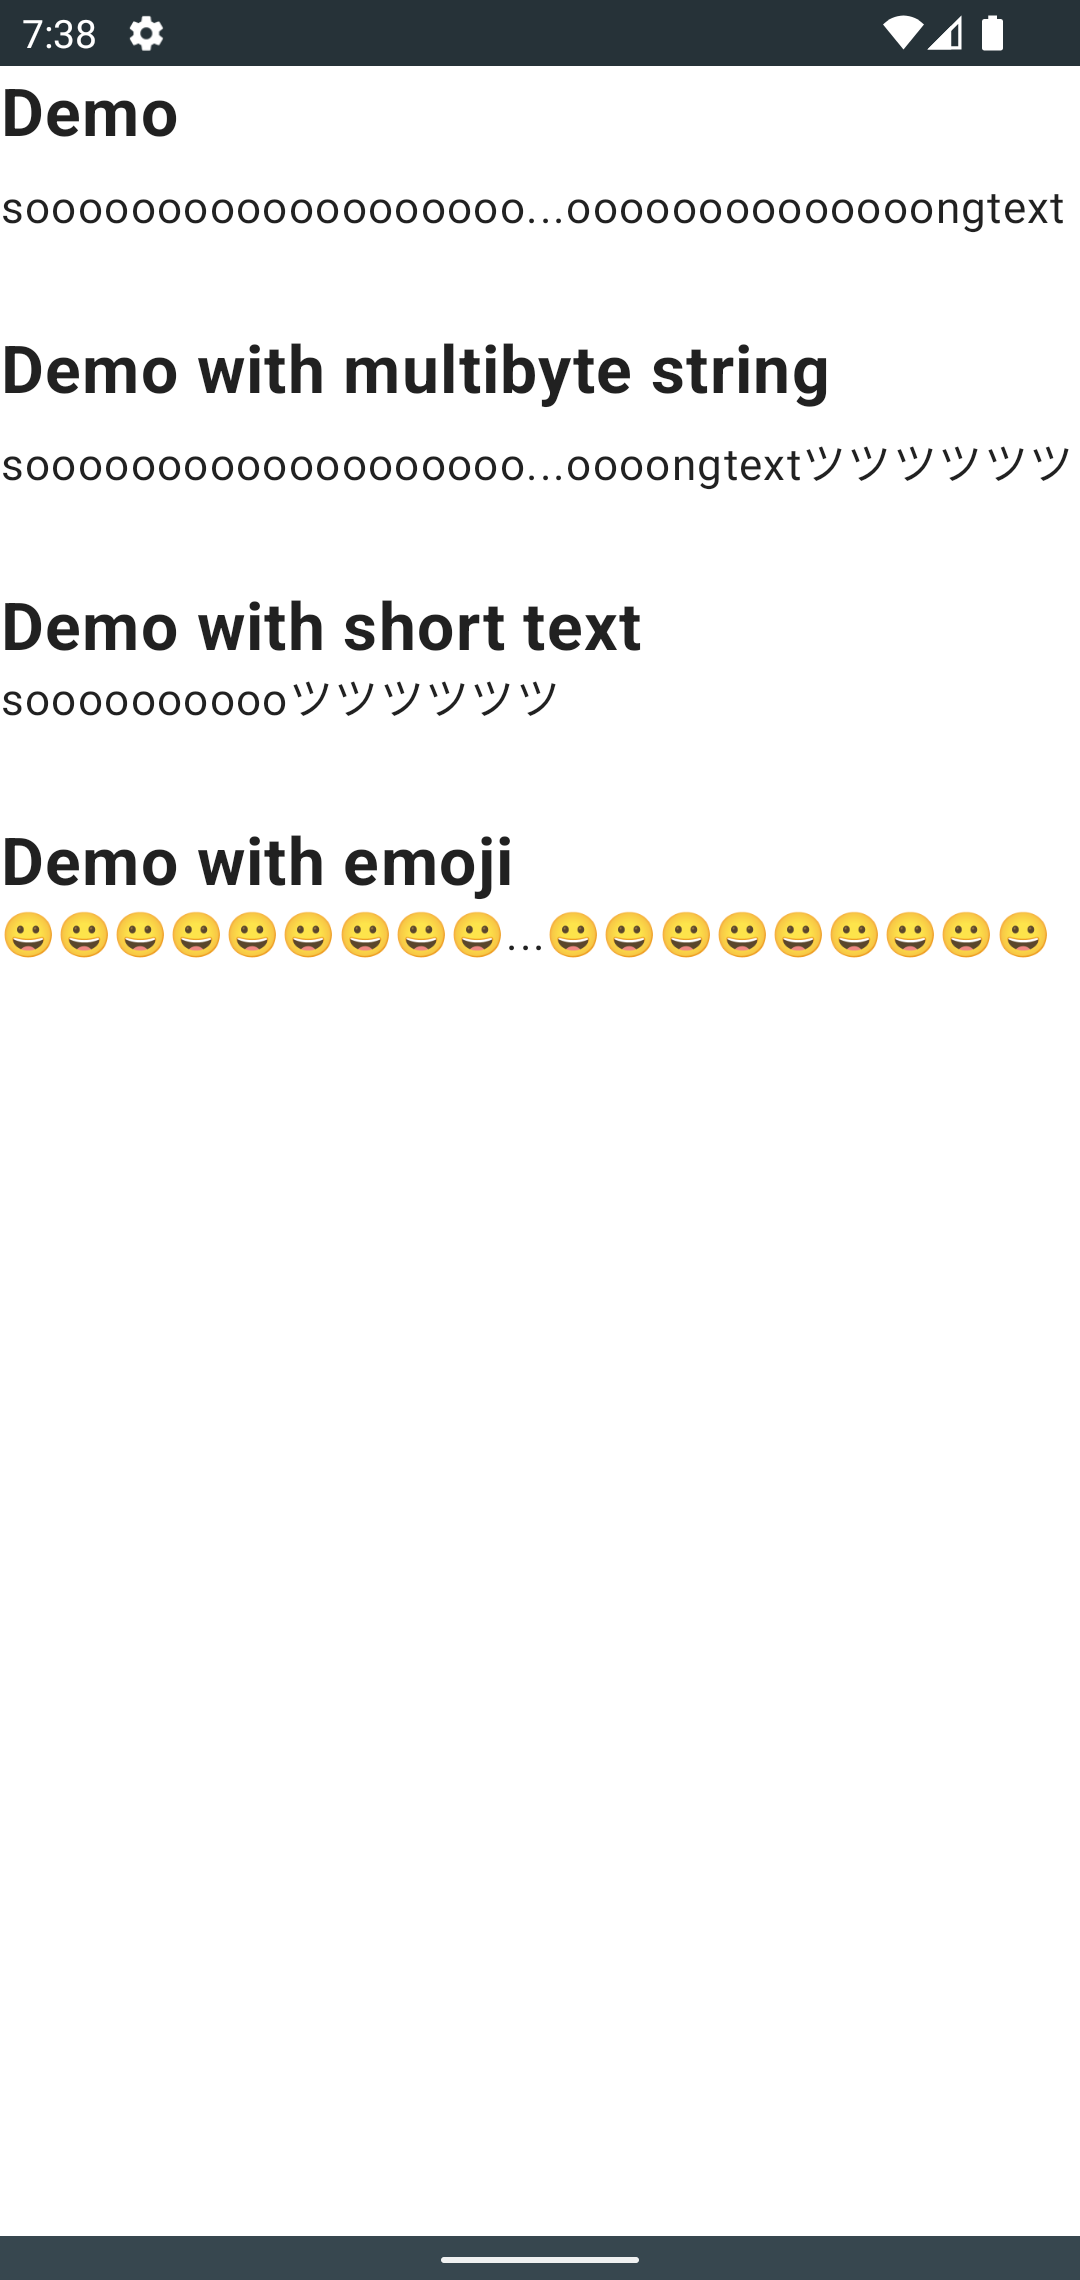
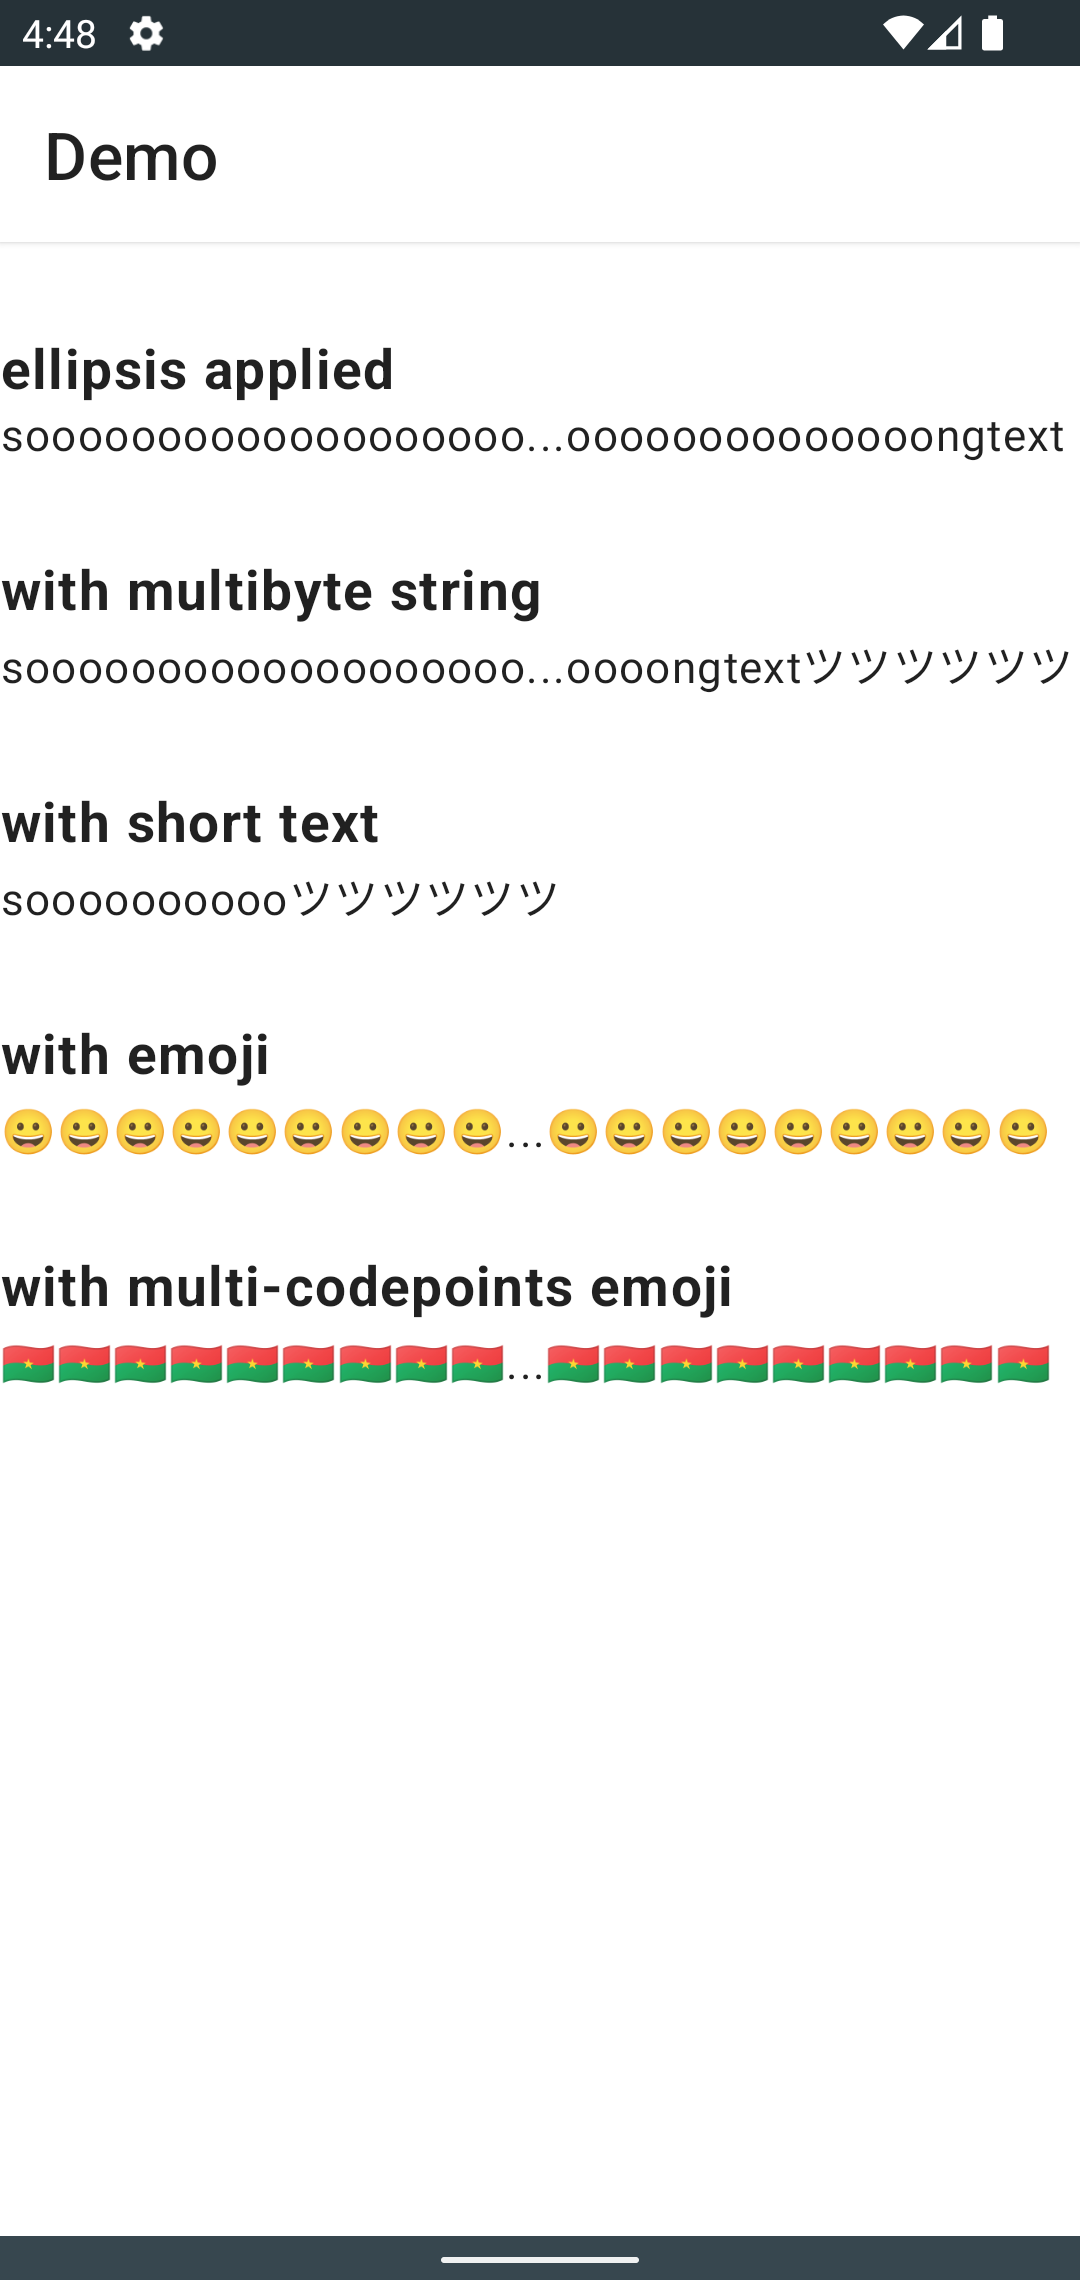
Update samples

diff --git a/app/src/main/java/com/mataku/middleellipsistextsample/MainActivity.kt b/app/src/main/java/com/mataku/middleellipsistextsample/MainActivity.kt
@@ -3,15 +3,19 @@ package com.mataku.middleellipsistextsample
 import android.os.Bundle
 import androidx.activity.ComponentActivity
 import androidx.activity.compose.setContent
+import androidx.compose.foundation.layout.Box
 import androidx.compose.foundation.layout.Column
 import androidx.compose.foundation.layout.Spacer
 import androidx.compose.foundation.layout.fillMaxSize
+import androidx.compose.foundation.layout.fillMaxWidth
 import androidx.compose.foundation.layout.height
+import androidx.compose.foundation.layout.padding
 import androidx.compose.material.MaterialTheme
 import androidx.compose.material.Surface
 import androidx.compose.material.Text
 import androidx.compose.runtime.Composable
 import androidx.compose.ui.Modifier
+import androidx.compose.ui.text.TextStyle
 import androidx.compose.ui.text.font.FontWeight
 import androidx.compose.ui.tooling.preview.Preview
 import androidx.compose.ui.unit.dp
@@ -36,8 +40,11 @@ private fun MainContent() {
   Column(
     modifier = Modifier.fillMaxSize()
   ) {
-    Text(text = "Demo", fontSize = 24.sp, fontWeight = FontWeight.Bold)
-    Spacer(modifier = Modifier.height(8.dp))
+    ContentHeader(text = "Demo")
+
+    Spacer(modifier = Modifier.height(32.dp))
+
+    Text(text = "ellipsis applied", fontSize = 20.sp, fontWeight = FontWeight.Bold)
 
     MiddleEllipsisText(
       text = "soooooooooooooooooooooooloooooooooooooooooooongtext",
@@ -45,9 +52,9 @@ private fun MainContent() {
 
     Spacer(modifier = Modifier.height(32.dp))
 
-    Text(text = "Demo with multibyte string", fontSize = 24.sp, fontWeight = FontWeight.Bold)
+    Text(text = "with multibyte string", fontSize = 20.sp, fontWeight = FontWeight.Bold)
 
-    Spacer(modifier = Modifier.height(8.dp))
+    Spacer(modifier = Modifier.height(4.dp))
 
     MiddleEllipsisText(
       text = "soooooooooooooooooooooooloooooooooooooooooooongtextツツツツツツ",
@@ -55,7 +62,9 @@ private fun MainContent() {
 
     Spacer(modifier = Modifier.height(32.dp))
 
-    Text(text = "Demo with short text", fontSize = 24.sp, fontWeight = FontWeight.Bold)
+    Text(text = "with short text", fontSize = 20.sp, fontWeight = FontWeight.Bold)
+
+    Spacer(modifier = Modifier.height(4.dp))
 
     MiddleEllipsisText(
       text = "sooooooooooツツツツツツ",
@@ -63,21 +72,25 @@ private fun MainContent() {
 
     Spacer(modifier = Modifier.height(32.dp))
 
-    Text(text = "Demo with emoji", fontSize = 24.sp, fontWeight = FontWeight.Bold)
+    Text(text = "with emoji", fontSize = 20.sp, fontWeight = FontWeight.Bold)
+
+    Spacer(modifier = Modifier.height(4.dp))
 
     val emojis2 = "\uD83D\uDE00".repeat(20)
 
     MiddleEllipsisText(
       text = emojis2,
     )
-    // TODO
-//    Spacer(modifier = Modifier.height(32.dp))
-//    Text(text = "Demo with special emoji", fontSize = 24.sp, fontWeight = FontWeight.Bold)
-//
-//    val emojis = "\uD83C\uDDE7\uD83C\uDDEB".repeat(20)
-//    MiddleEllipsisText(
-//      text = emojis,
-//    )
+
+    Spacer(modifier = Modifier.height(32.dp))
+    Text(text = "with multi-codepoints emoji", fontSize = 20.sp, fontWeight = FontWeight.Bold)
+
+    Spacer(modifier = Modifier.height(4.dp))
+
+    val emojis = "\uD83C\uDDE7\uD83C\uDDEB".repeat(20)
+    MiddleEllipsisText(
+      text = emojis,
+    )
   }
 }
 
@@ -87,6 +100,31 @@ private fun MainContentPreview() {
   MaterialTheme {
     Surface {
       MainContent()
+    }
+  }
+}
+
+@Composable
+fun ContentHeader(
+  text: String
+) {
+  Surface(
+    elevation = 2.dp
+  ) {
+    Box(
+      modifier = Modifier
+        .fillMaxWidth()
+    ) {
+      Text(
+        text = text,
+        style = TextStyle(
+          fontWeight = FontWeight.Medium,
+          fontSize = 24.sp,
+          letterSpacing = 0.15.sp
+        ),
+        modifier = Modifier
+          .padding(16.dp)
+      )
     }
   }
 }
